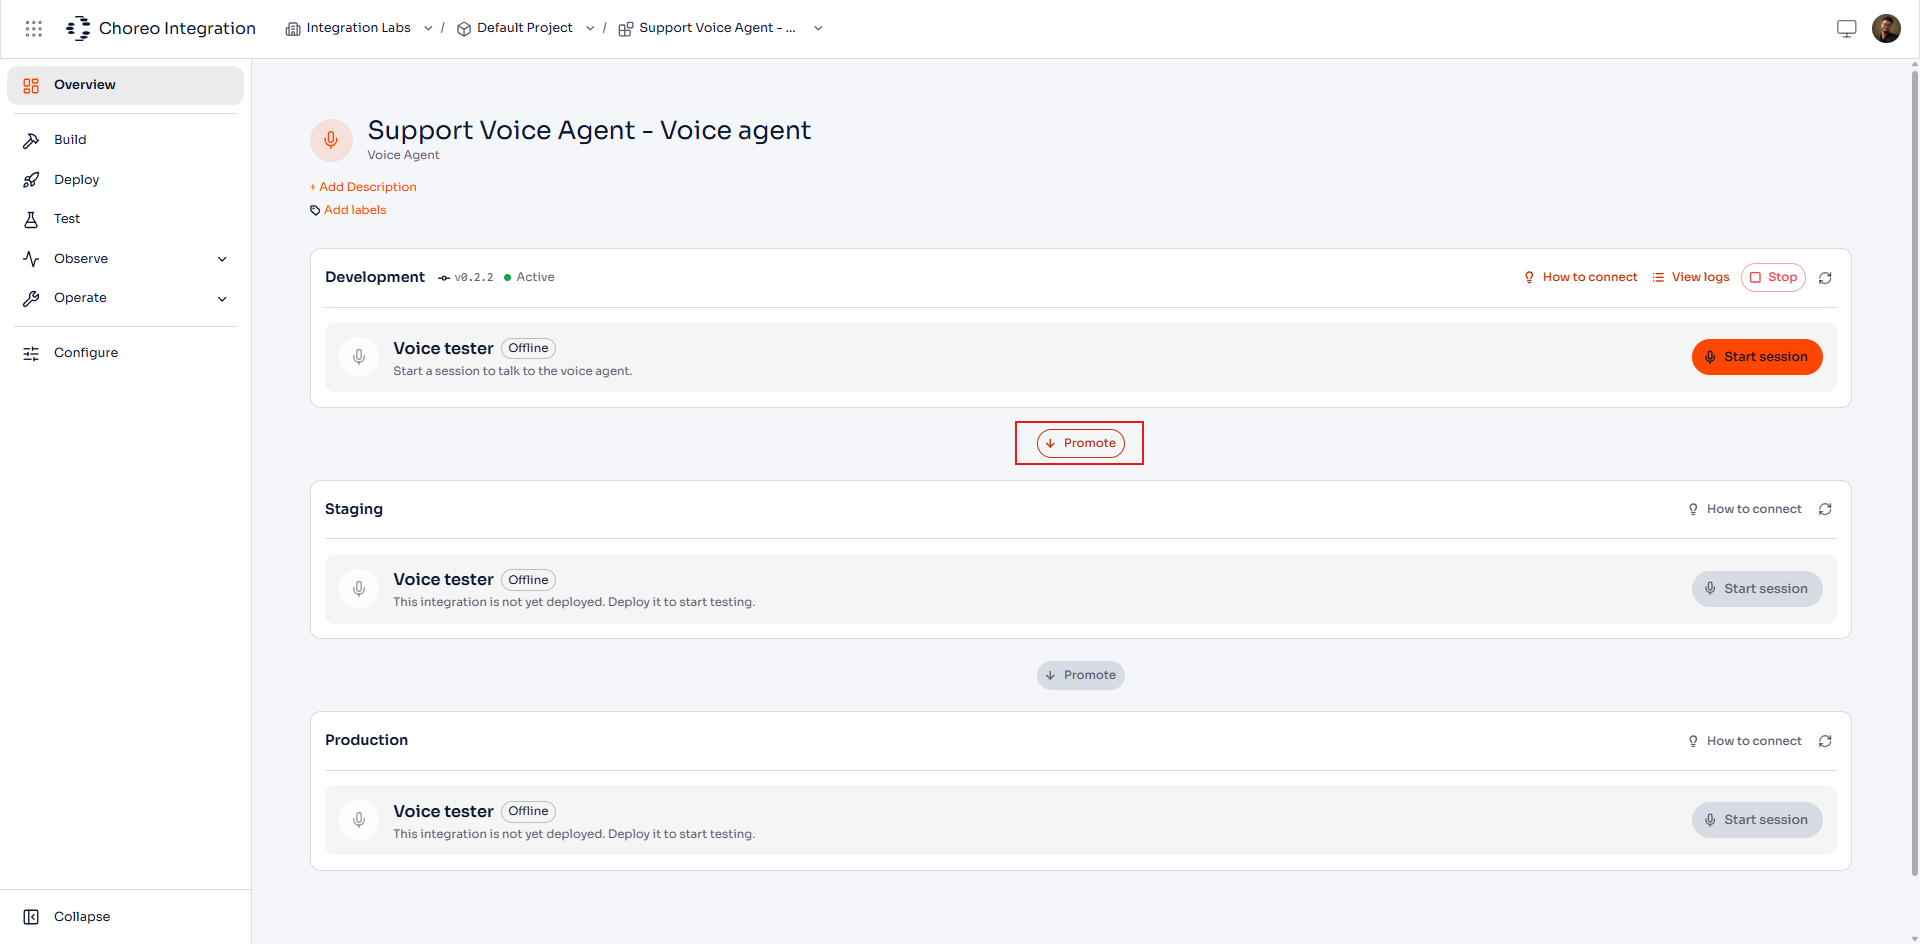
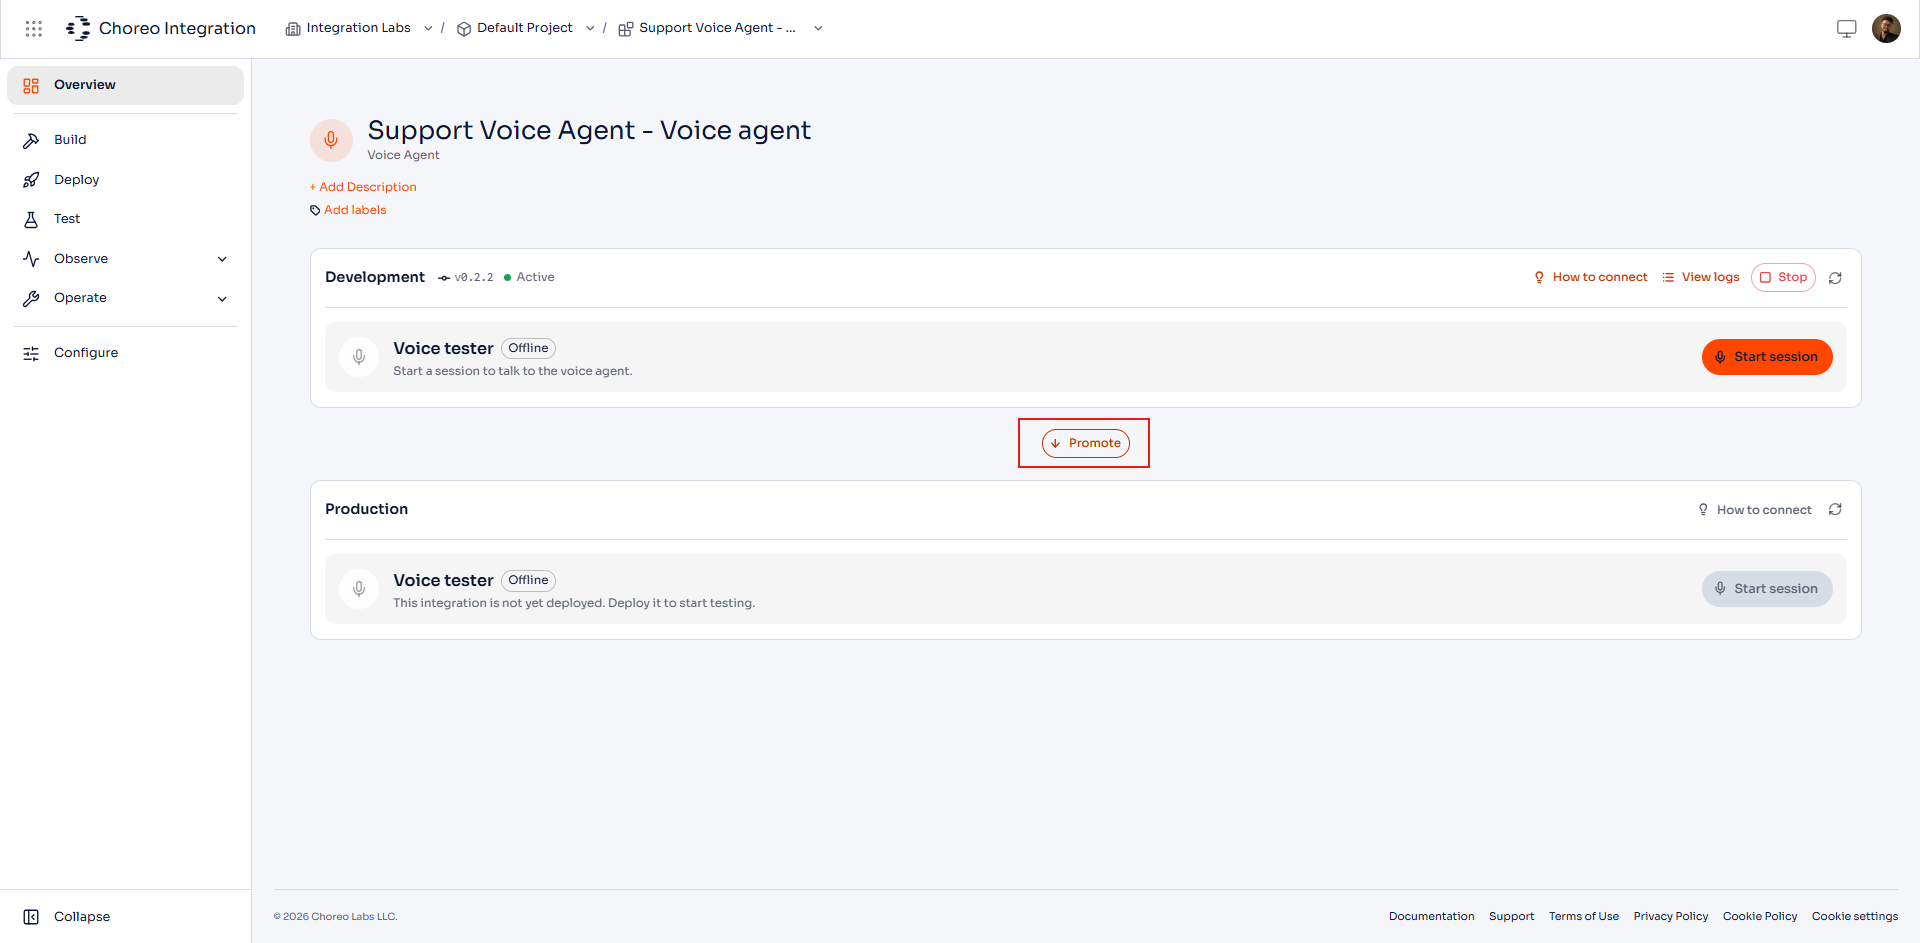
docs(v3): correct voice agent promotion pipeline to Development/Production
The updated Promote screenshot showed only two environment cards, no
Staging - confirmed this is now a real 2-stage pipeline for voice
agents, not a stale capture. Updated the other Staging references and
re-shot the Development-active screenshot (its status card needed a
refresh to clear a stale loading state) to match.

diff --git a/en/docs/manage/managed-ai-services/voice-agents.md b/en/docs/manage/managed-ai-services/voice-agents.md
@@ -239,10 +239,10 @@ Choreo Cloud creates a new integration of type **Voice Agent** in the project, n
     }}
 />
 
-Open the voice agent and wait until the **Development** card on its overview page shows **Active**. The voice agent has **Development**, **Staging**, and **Production** cards. Each card has its own **Voice tester**, and **How to connect** shows how to connect a client to that environment.
+Open the voice agent and wait until the **Development** card on its overview page shows **Active**. The voice agent has **Development** and **Production** cards. Each card has its own **Voice tester**, and **How to connect** shows how to connect a client to that environment.
 
 <ThemedImage
-    alt="Voice agent overview with the Development environment Active and its Voice tester, and the Staging and Production cards"
+    alt="Voice agent overview with the Development environment Active and its Voice tester, and the Production card"
     sources={{
         light: useBaseUrl('/img/manage/cloud/voice-agents/voice-agent-development-active.png'),
         dark: useBaseUrl('/img/manage/cloud/voice-agents/voice-agent-development-active.png'),
@@ -281,10 +281,10 @@ For the customer support example, try:
 
 ## Promote to production
 
-When you're ready to use the voice agent beyond Development, click **Promote** between the **Development** and **Staging** cards on the voice agent's overview page. Wait until the **Staging** card shows **Active**, then test it with that card's **Voice tester**. Click **Promote** again, between **Staging** and **Production**, to promote it the same way to **Production**.
+When you're ready to use the voice agent beyond Development, click **Promote** between the **Development** and **Production** cards on the voice agent's overview page. Wait until the **Production** card shows **Active**, then test it with that card's **Voice tester**.
 
 <ThemedImage
-    alt="Voice agent overview with the Promote button between the Development and Staging cards highlighted"
+    alt="Voice agent overview with the Promote button between the Development and Production cards highlighted"
     sources={{
         light: useBaseUrl('/img/manage/cloud/voice-agents/promote-to-production.png'),
         dark: useBaseUrl('/img/manage/cloud/voice-agents/promote-to-production.png'),
